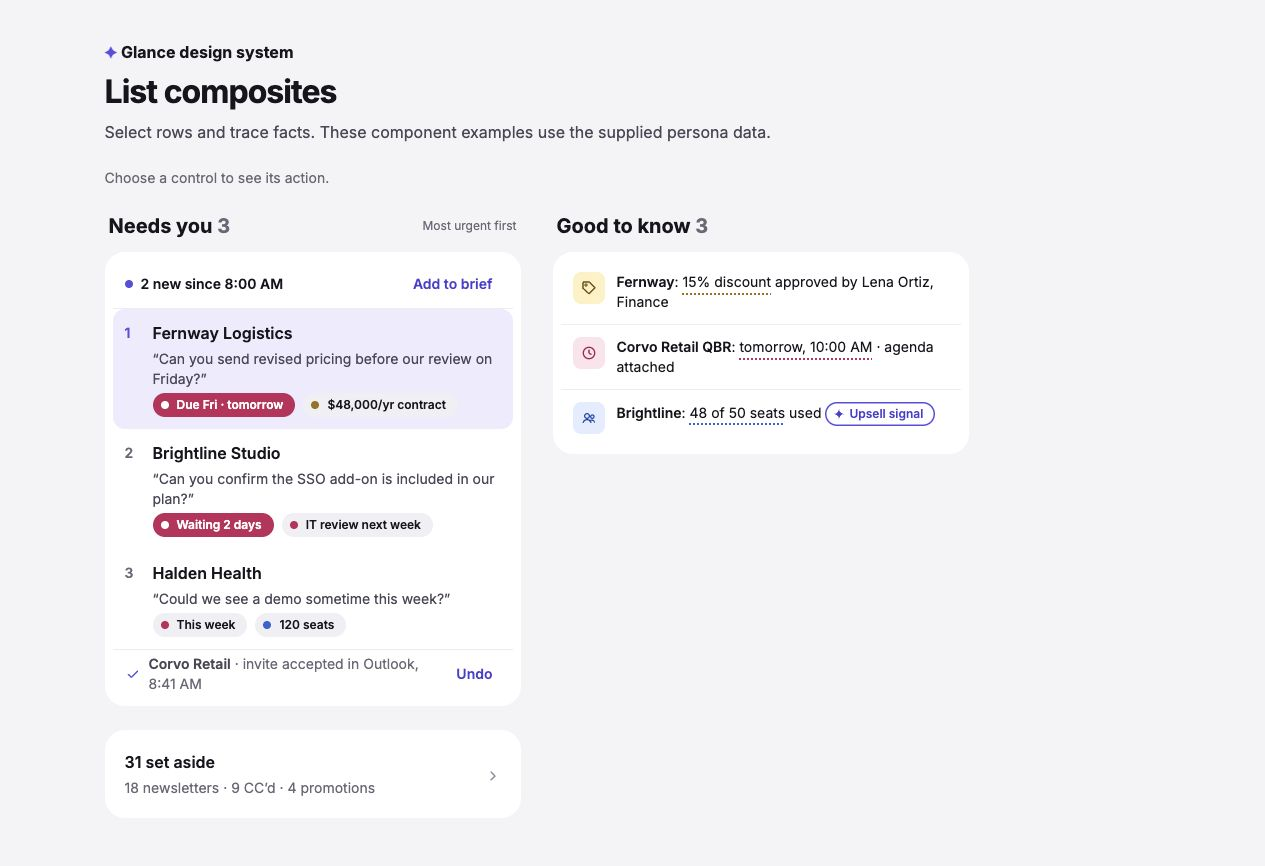
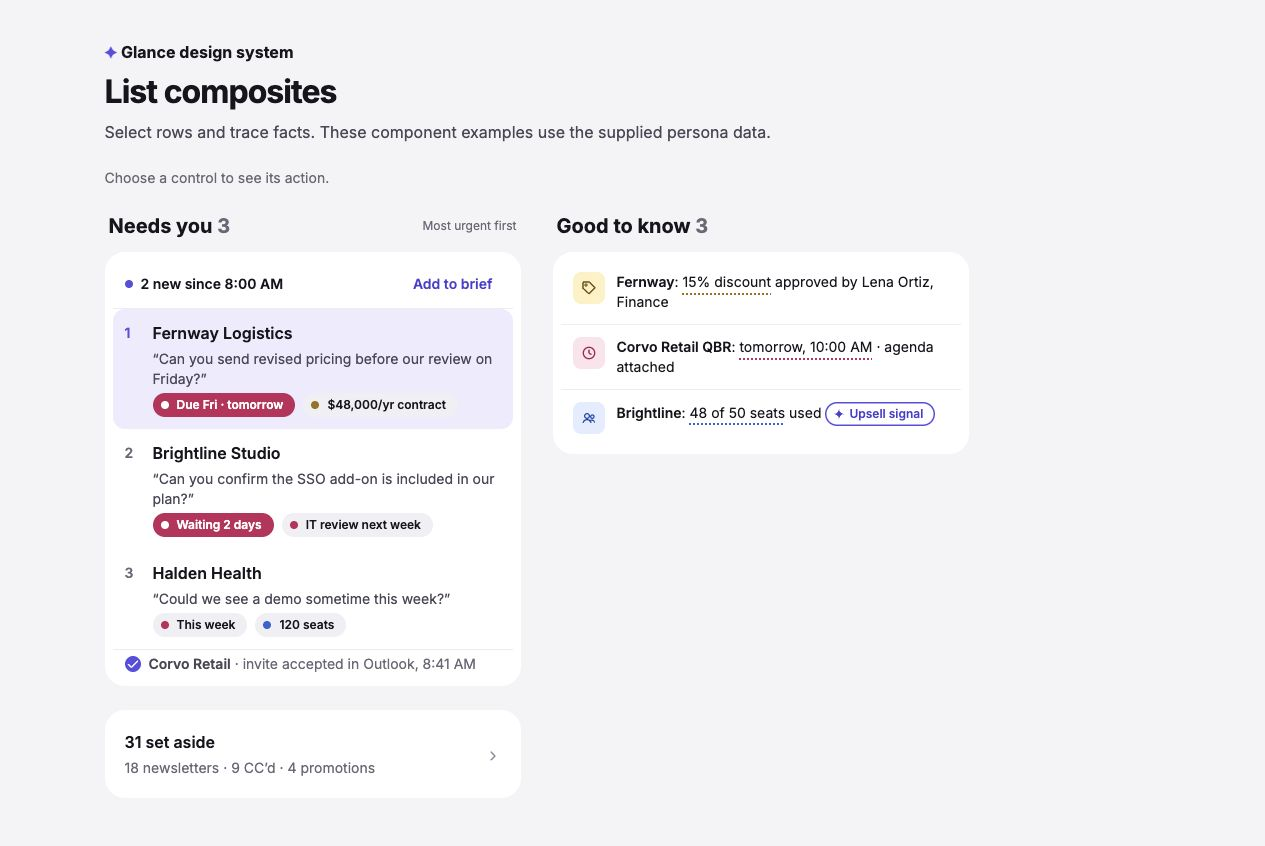
fix(ds): match completion and phone list states

diff --git a/src/design-system/components/DoneRow/DoneRow.stories.tsx b/src/design-system/components/DoneRow/DoneRow.stories.tsx
@@ -1,6 +1,6 @@
 import { SectionCard } from '../SectionCard/SectionCard';
 import type { Meta, StoryObj } from '@storybook/react-vite';
-import { fn, expect, userEvent } from 'storybook/test';
+import { fn, expect, userEvent, waitFor } from 'storybook/test';
 import { DoneRow } from './DoneRow';
 import { maya } from '../listSamples';
 const meta = {
@@ -13,22 +13,42 @@ const meta = {
       </SectionCard>
     ),
   ],
-  args: { ...maya.doneBefore[0], onUndo: fn() },
+  args: { ...maya.doneBefore[0], onUndo: undefined },
 } satisfies Meta<typeof DoneRow>;
 export default meta;
 type Story = StoryObj<typeof meta>;
 export const Done: Story = {};
+export const DoneBefore: Story = {
+  play: async ({ canvas }) => {
+    await waitFor(async () => {
+      await expect(canvas.getByText(maya.doneBefore[0].name)).toBeVisible();
+    });
+    await expect(
+      canvas.queryByRole('button', { name: /^Undo/ }),
+    ).not.toBeInTheDocument();
+  },
+};
+export const SessionDone: Story = {
+  args: { name: maya.items[0].name, note: 'done', onUndo: fn() },
+};
 export const Snoozed: Story = {
-  args: { name: maya.items[0].name, note: 'snoozed', kind: 'snoozed' },
+  args: {
+    name: maya.items[0].name,
+    note: 'snoozed',
+    kind: 'snoozed',
+    onUndo: fn(),
+  },
 };
 export const MovedToSetAside: Story = {
   args: {
     name: maya.items[2].name,
     note: 'moved to Set aside by you',
     kind: 'moved',
+    onUndo: fn(),
   },
 };
 export const Undo: Story = {
+  args: { ...SessionDone.args },
   play: async ({ canvas, args }) => {
     await userEvent.click(
       canvas.getByRole('button', { name: 'Undo ' + args.name }),

diff --git a/src/design-system/components/DoneRow/DoneRow.tsx b/src/design-system/components/DoneRow/DoneRow.tsx
@@ -7,7 +7,7 @@ interface DoneRowProps {
   name: string;
   note: string;
   kind?: 'done' | 'snoozed' | 'moved';
-  onUndo: () => void;
+  onUndo?: () => void;
 }
 export function DoneRow({ name, note, kind = 'done', onUndo }: DoneRowProps) {
   return (
@@ -26,14 +26,16 @@ export function DoneRow({ name, note, kind = 'done', onUndo }: DoneRowProps) {
         <strong>{name}</strong>
         {' · ' + note}
       </span>
-      <Button
-        variant="text"
-        size="compact"
-        onClick={onUndo}
-        aria-label={'Undo ' + name}
-      >
-        Undo
-      </Button>
+      {onUndo && (
+        <Button
+          variant="text"
+          size="compact"
+          onClick={onUndo}
+          aria-label={'Undo ' + name}
+        >
+          Undo
+        </Button>
+      )}
     </div>
   );
 }

diff --git a/src/design-system/components/BriefRow/BriefRow.tsx b/src/design-system/components/BriefRow/BriefRow.tsx
@@ -8,6 +8,7 @@ import { useDesktopLayout } from '../useDesktopLayout';
 import control from '../Control.module.css';
 import row from '../ListRow.module.css';
 import motion from '../ListMotion.module.css';
+import styles from './BriefRow.module.css';
 
 interface BriefRowProps {
   item: Item;
@@ -42,6 +43,7 @@ export function BriefRow({
       inert={leaving}
       className={[
         motion.shell,
+        !desktop && styles.phone,
         item.isNew && motion.enter,
         leaving && motion.leaving,
       ]

diff --git a/src/design-system/components/ListExamples.tsx b/src/design-system/components/ListExamples.tsx
@@ -54,11 +54,7 @@ export function ListOverview({ personaId }: { personaId: PersonaId }) {
               />
             ))}
             {persona.doneBefore.map((done) => (
-              <DoneRow
-                key={done.name}
-                {...done}
-                onUndo={() => setAction('Undo requested: ' + done.name)}
-              />
+              <DoneRow key={done.name} {...done} />
             ))}
           </SectionCard>
           <CollapsedGroup

diff --git a/src/design-system/components/BriefRow/BriefRow.module.css b/src/design-system/components/BriefRow/BriefRow.module.css
@@ -1,0 +1,15 @@
+.phone {
+  position: relative;
+}
+.phone + .phone::before {
+  content: '';
+  position: absolute;
+  inset-block-start: 0;
+  inset-inline-start: calc(
+    var(--space-12) + var(--size-icon) + var(--space-12)
+  );
+  inset-inline-end: var(--space-12);
+  border-block-start: var(--border-hairline) solid var(--color-border);
+  pointer-events: none;
+  z-index: 1;
+}

diff --git a/src/design-system/components/DoneRow/DoneRow.module.css b/src/design-system/components/DoneRow/DoneRow.module.css
@@ -17,7 +17,11 @@
   color: var(--color-text-secondary);
 }
 .done {
-  color: var(--color-brand);
+  color: var(--color-on-brand);
+  background: var(--color-brand);
+  border-radius: var(--radius-pill);
+  inline-size: var(--size-icon);
+  block-size: var(--size-icon);
   flex: none;
 }
 .muted {

diff --git a/src/design-system/components/ListRow.module.css b/src/design-system/components/ListRow.module.css
@@ -12,6 +12,7 @@
   --pressed-fill: var(--color-row-pressed);
 }
 .selected {
+  --pressed-fill: var(--color-brand-tint-pressed);
   --control-fill: var(--color-brand-tint);
   --hover-fill: var(--color-brand-tint-hover);
 }

diff --git a/docs/design-system.md b/docs/design-system.md
@@ -309,9 +309,11 @@ The same row for every item, whatever its type.
 
 - Default: no fill.
 - Hover: `--color-row-hover`. Pressed: `--color-row-pressed`. No outline; the outline is for keyboard focus only.
-- Selected: `--color-brand-tint` fill and `aria-pressed`; the rank turns brand. Selected and hovered: `--color-brand-tint-hover`.
+- Selected: `--color-brand-tint` fill and `aria-pressed`; the rank turns brand. Selected and hovered: `--color-brand-tint-hover`. Selected and pressed: `--color-brand-tint-pressed`.
 - Leaving: collapses over `--duration-collapse` (320 ms).
 - New: shows the `New` Badge and enters with the enter motion (§2).
+
+On phone, adjacent BriefRows have a `--border-hairline` divider in `--color-border` that starts at the content edge, after the rank and gap. Desktop BriefRows have no dividers between them.
 
 ### SectionCard
 
@@ -342,7 +344,7 @@ On desktop the list opens in the detail area. On phone it opens in the same shee
 
 ### DoneRow
 
-A brand check (a muted clock for snoozed items, a muted tray-arrow for items moved to Set aside), then “**Name** · what happened”, then an Undo text button. Done rows appear with the enter motion (§2).
+A filled `--color-brand` circle with an `--color-on-brand` check at `--size-icon` (a muted clock for snoozed items, a muted tray-arrow for items moved to Set aside), then “**Name** · what happened”. Undo is optional: only items done during the session receive `onUndo` and show the Undo text button. Rows from `doneBefore` have no restore data and no Undo. Done rows appear with the enter motion (§2).
 
 ### NewMailRow
 
